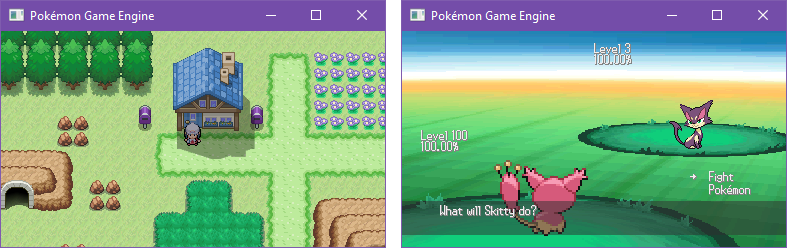
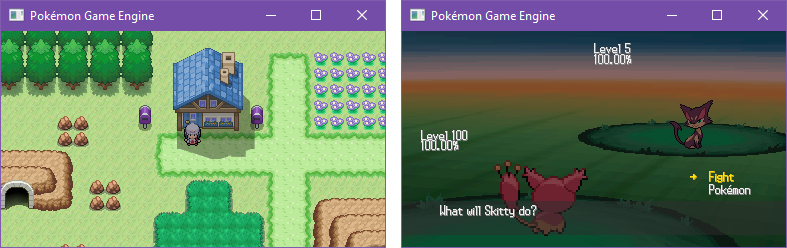
Add day/night cycle/tint
Need to add a flag to maps which will disable the tint

diff --git a/PokemonGameEngine/GUI/Battle/BattleGUI.cs b/PokemonGameEngine/GUI/Battle/BattleGUI.cs
@@ -86,14 +86,44 @@ namespace Kermalis.PokemonGameEngine.GUI.Battle
             _actionsGUI?.LogicTick();
         }
 
+        private unsafe void RenderPkmn(uint* bmpAddress, int bmpWidth, int bmpHeight, float x, float y, bool ally, SpritedBattlePokemon sPkmn)
+        {
+            Sprite sprite = ally ? sPkmn.BackSprite : sPkmn.FrontSprite; // TODO: Substitute
+            int width = sprite.Width;
+            int height = sprite.Height;
+            if (ally)
+            {
+                width *= 2;
+                height *= 2;
+            }
+            sprite.DrawOn(bmpAddress, bmpWidth, bmpHeight, (int)(bmpWidth * x) - (width / 2), (int)(bmpHeight * y) - height, width, height);
+        }
+        private unsafe void RenderPkmnInfo(uint* bmpAddress, int bmpWidth, int bmpHeight, float x, float y, SpritedBattlePokemon sPkmn)
+        {
+            PBEBattlePokemon pkmn = sPkmn.Pkmn;
+            Font.Default.DrawString(bmpAddress, bmpWidth, bmpHeight, (int)(bmpWidth * x), (int)(bmpHeight * y), "Level " + pkmn.Level.ToString(), Font.DefaultWhite);
+            Font.Default.DrawString(bmpAddress, bmpWidth, bmpHeight, (int)(bmpWidth * x), (int)(bmpHeight * (y + 0.05f)), pkmn.HPPercentage.ToString("P2"), Font.DefaultWhite);
+        }
+
         public unsafe void RenderTick(uint* bmpAddress, int bmpWidth, int bmpHeight)
         {
             PBEBattle battle = _battle;
+
+            Font fontDefault = Font.Default;
+            uint[] defaultWhite = Font.DefaultWhite;
+            _battleBackground.DrawOn(bmpAddress, bmpWidth, bmpHeight, 0, 0, bmpWidth, bmpHeight);
+            SpritedBattlePokemon foe = _spritedParties[1].SpritedParty[0];
+            SpritedBattlePokemon ally = _spritedParties[0].SpritedParty[0];
+            RenderPkmn(bmpAddress, bmpWidth, bmpHeight, 0.75f, 0.55f, false, foe);
+            RenderPkmn(bmpAddress, bmpWidth, bmpHeight, 0.35f, 0.95f, true, ally);
+
+            DayTint.Render(bmpAddress, bmpWidth, bmpHeight); // TODO: Indoors battles
+
             if (!_transitionDone)
             {
                 float t = _transitionCounter / TransitionDurationF;
                 float t1 = t + 1;
-                _battleBackground.DrawOn(bmpAddress, bmpWidth, bmpHeight, 0, 0, (int)(bmpWidth * t1), (int)(bmpHeight * t1));
+                //_battleBackground.DrawOn(bmpAddress, bmpWidth, bmpHeight, 0, 0, (int)(bmpWidth * t1), (int)(bmpHeight * t1));
                 RenderUtils.FillColor(bmpAddress, bmpWidth, bmpHeight, 0, 0, bmpWidth, bmpHeight, (uint)(t * 0xFF) << 24);
                 if (--_transitionCounter <= 0)
                 {
@@ -103,32 +133,14 @@ namespace Kermalis.PokemonGameEngine.GUI.Battle
                 return;
             }
 
-            Font fontDefault = Font.Default;
-            uint[] defaultWhite = Font.DefaultWhite;
-            _battleBackground.DrawOn(bmpAddress, bmpWidth, bmpHeight, 0, 0, bmpWidth, bmpHeight);
-            // Before we have sprites we will do this :)
-            SpritedBattlePokemon sPkmn = _spritedParties[1].SpritedParty[0];
-            PBEBattlePokemon pkmn = sPkmn.Pkmn;
-            fontDefault.DrawString(bmpAddress, bmpWidth, bmpHeight, (int)(bmpWidth * 0.5f), (int)(bmpHeight * 0.05f), "Level " + pkmn.Level.ToString(), defaultWhite);
-            fontDefault.DrawString(bmpAddress, bmpWidth, bmpHeight, (int)(bmpWidth * 0.5f), (int)(bmpHeight * 0.1f), pkmn.HPPercentage.ToString("P2"), defaultWhite);
-            Sprite sprite = sPkmn.FrontSprite;
-            int width = sprite.Width;
-            int height = sprite.Height;
-            sprite.DrawOn(bmpAddress, bmpWidth, bmpHeight, (int)(bmpWidth * 0.75f) - (width / 2), (int)(bmpHeight * 0.55f) - height);
-            sPkmn = _spritedParties[0].SpritedParty[0];
-            pkmn = sPkmn.Pkmn;
-            fontDefault.DrawString(bmpAddress, bmpWidth, bmpHeight, (int)(bmpWidth * 0.05f), (int)(bmpHeight * 0.45f), "Level " + pkmn.Level.ToString(), defaultWhite);
-            fontDefault.DrawString(bmpAddress, bmpWidth, bmpHeight, (int)(bmpWidth * 0.05f), (int)(bmpHeight * 0.5f), pkmn.HPPercentage.ToString("P2"), defaultWhite);
-            sprite = sPkmn.BackSprite;
-            width = sprite.Width * 2;
-            height = sprite.Height * 2;
-            sprite.DrawOn(bmpAddress, bmpWidth, bmpHeight, (int)(bmpWidth * 0.35f) - (width / 2), (int)(bmpHeight * 0.95f) - height, width, height);
+            RenderPkmnInfo(bmpAddress, bmpWidth, bmpHeight, 0.50f, 0.05f, foe);
+            RenderPkmnInfo(bmpAddress, bmpWidth, bmpHeight, 0.05f, 0.45f, ally);
 
             string msg = _message;
             if (msg != null)
             {
                 RenderUtils.FillColor(bmpAddress, bmpWidth, bmpHeight, 0, (int)(bmpHeight * 0.79f), bmpWidth, (int)(bmpHeight * 0.16f), 0x80313131);
-                fontDefault.DrawString(bmpAddress, bmpWidth, bmpHeight, (int)(bmpWidth * 0.1f), (int)(bmpHeight * 0.8f), msg, defaultWhite);
+                fontDefault.DrawString(bmpAddress, bmpWidth, bmpHeight, (int)(bmpWidth * 0.10f), (int)(bmpHeight * 0.80f), msg, defaultWhite);
             }
 
             _actionsGUI?.RenderTick(bmpAddress, bmpWidth, bmpHeight);

diff --git a/PokemonGameEngine/GUI/DayTint.cs b/PokemonGameEngine/GUI/DayTint.cs
@@ -1,0 +1,104 @@
+using Kermalis.PokemonGameEngine.Render;
+using System;
+
+namespace Kermalis.PokemonGameEngine.GUI
+{
+    internal static class DayTint
+    {
+        public static int? OverrideHour { get; set; }
+        public static int? OverrideMinute { get; set; }
+        private static int _tintHour;
+        private static int _tintMinute;
+
+        static DayTint()
+        {
+            SetTintTime();
+        }
+
+        private static readonly float[][] _colors = new float[24][]
+        {
+            new float[3] { 0.160f, 0.180f, 0.330f }, // 00
+            new float[3] { 0.160f, 0.180f, 0.330f }, // 01
+            new float[3] { 0.160f, 0.180f, 0.330f }, // 02
+            new float[3] { 0.170f, 0.185f, 0.345f }, // 03
+            new float[3] { 0.225f, 0.235f, 0.375f }, // 04
+            new float[3] { 0.350f, 0.265f, 0.415f }, // 05
+            new float[3] { 0.500f, 0.400f, 0.500f }, // 06
+            new float[3] { 0.720f, 0.660f, 0.555f }, // 07
+            new float[3] { 0.900f, 0.785f, 0.815f }, // 08
+            new float[3] { 0.950f, 0.980f, 0.905f }, // 09
+            new float[3] { 1.000f, 0.985f, 0.945f }, // 10
+            new float[3] { 1.000f, 1.000f, 0.950f }, // 11
+            new float[3] { 1.000f, 1.000f, 1.000f }, // 12
+            new float[3] { 1.000f, 1.000f, 0.985f }, // 13
+            new float[3] { 1.000f, 1.000f, 0.955f }, // 14
+            new float[3] { 0.995f, 1.000f, 0.950f }, // 15
+            new float[3] { 0.955f, 0.975f, 0.850f }, // 16
+            new float[3] { 0.845f, 0.885f, 0.740f }, // 17
+            new float[3] { 0.700f, 0.690f, 0.560f }, // 18
+            new float[3] { 0.545f, 0.460f, 0.390f }, // 19
+            new float[3] { 0.490f, 0.320f, 0.380f }, // 20
+            new float[3] { 0.250f, 0.235f, 0.370f }, // 21
+            new float[3] { 0.180f, 0.205f, 0.350f }, // 22
+            new float[3] { 0.160f, 0.180f, 0.330f }  // 23
+        };
+
+        private static void SetTintTime()
+        {
+            DateTime time = DateTime.Now;
+            _tintHour = GetCurHour(time);
+            _tintMinute = GetCurMinute(time);
+        }
+        private static int GetCurHour(DateTime time)
+        {
+            return OverrideHour ?? time.Hour;
+        }
+        private static int GetCurMinute(DateTime time)
+        {
+            return OverrideMinute ?? time.Minute;
+        }
+
+        private static void GetHourTint(int hour, out float rMod, out float gMod, out float bMod)
+        {
+            float[] hourColors = _colors[hour];
+            rMod = hourColors[0];
+            gMod = hourColors[1];
+            bMod = hourColors[2];
+        }
+
+        public static unsafe void Render(uint* bmpAddress, int bmpWidth, int bmpHeight)
+        {
+            // We can probably update the day tint in a LogicTick() assuming it will be called at the appropriate times
+            int tintHour = _tintHour;
+            GetHourTint(tintHour, out float rMod, out float gMod, out float bMod);
+            // Do minute transition
+            int tintMinute = _tintMinute;
+            float minuteMod = tintMinute / 60f;
+            int nextTintMinute = tintMinute;
+            DateTime time = DateTime.Now;
+            if (tintMinute != GetCurMinute(time) || tintHour != GetCurHour(time))
+            {
+                nextTintMinute++;
+            }
+            int nextTintHour = tintHour + 1;
+            if (nextTintHour >= 24)
+            {
+                nextTintHour = 0;
+            }
+            GetHourTint(nextTintHour, out float nextRMod, out float nextGMod, out float nextBMod);
+            rMod += (nextRMod - rMod) * minuteMod;
+            gMod += (nextGMod - gMod) * minuteMod;
+            bMod += (nextBMod - bMod) * minuteMod;
+            if (nextTintMinute >= 60)
+            {
+                _tintMinute = 0;
+                _tintHour = nextTintHour;
+            }
+            else
+            {
+                _tintMinute = nextTintMinute;
+            }
+            RenderUtils.Modulate(bmpAddress, bmpWidth, bmpHeight, 1, rMod, gMod, bMod);
+        }
+    }
+}

diff --git a/PokemonGameEngine/Render/RenderUtils.cs b/PokemonGameEngine/Render/RenderUtils.cs
@@ -107,6 +107,16 @@ namespace Kermalis.PokemonGameEngine.Render
                 }
             }
         }
+        public static unsafe void Modulate(uint* bmpAddress, int bmpWidth, int bmpHeight, float aMod, float rMod, float gMod, float bMod)
+        {
+            for (int y = 0; y < bmpHeight; y++)
+            {
+                for (int x = 0; x < bmpWidth; x++)
+                {
+                    ModulateUnchecked(bmpAddress + x + (y * bmpWidth), aMod, rMod, gMod, bMod);
+                }
+            }
+        }
 
         public static unsafe void DrawBitmap(uint* bmpAddress, int bmpWidth, int bmpHeight, int x, int y, uint[] otherBmp, int otherBmpWidth, int otherBmpHeight, bool xFlip = false, bool yFlip = false)
         {
@@ -187,6 +197,19 @@ namespace Kermalis.PokemonGameEngine.Render
             }
         }
 
+        public static unsafe void ModulateUnchecked(uint* pixelAddress, float aMod, float rMod, float gMod, float bMod)
+        {
+            uint current = *pixelAddress;
+            uint a = current >> 24;
+            uint r = (current >> 16) & 0xFF;
+            uint g = (current >> 8) & 0xFF;
+            uint b = current & 0xFF;
+            a = (byte)(a * aMod);
+            r = (byte)(r * rMod);
+            g = (byte)(g * gMod);
+            b = (byte)(b * bMod);
+            *pixelAddress = (a << 24) | (r << 16) | (g << 8) | b;
+        }
         public static unsafe void DrawUnchecked(uint* pixelAddress, uint color)
         {
             if (color == 0x00000000)

diff --git a/PokemonGameEngine/GUI/OverworldGUI.cs b/PokemonGameEngine/GUI/OverworldGUI.cs
@@ -99,6 +99,7 @@ namespace Kermalis.PokemonGameEngine.GUI
         {
             RenderUtils.FillColor(bmpAddress, bmpWidth, bmpHeight, 0xFF000000);
             Map.Draw(bmpAddress, bmpWidth, bmpHeight);
+            DayTint.Render(bmpAddress, bmpWidth, bmpHeight); // TODO: Indoors maps
         }
     }
 }

diff --git a/README.md b/README.md
@@ -16,13 +16,12 @@ If you'd like to learn more or just talk, join our _(new-ish)_ [Discord server](
 * Scripting
 * Wild encounters
 * Very non-limiting mapping (elevations, layers, no color limits, transparency, etc)
+* [Day & Night Cycle](https://gfycat.com/TightTediousEuropeanpolecat)
 
 ----
 ## To Do:
-* Day/night cycle/tint
 * Changable tiles based on day/night
 * Tile animations
-* Inventory
 * Saving
 * Flags/vars
 * Events/NPCs on the maps
